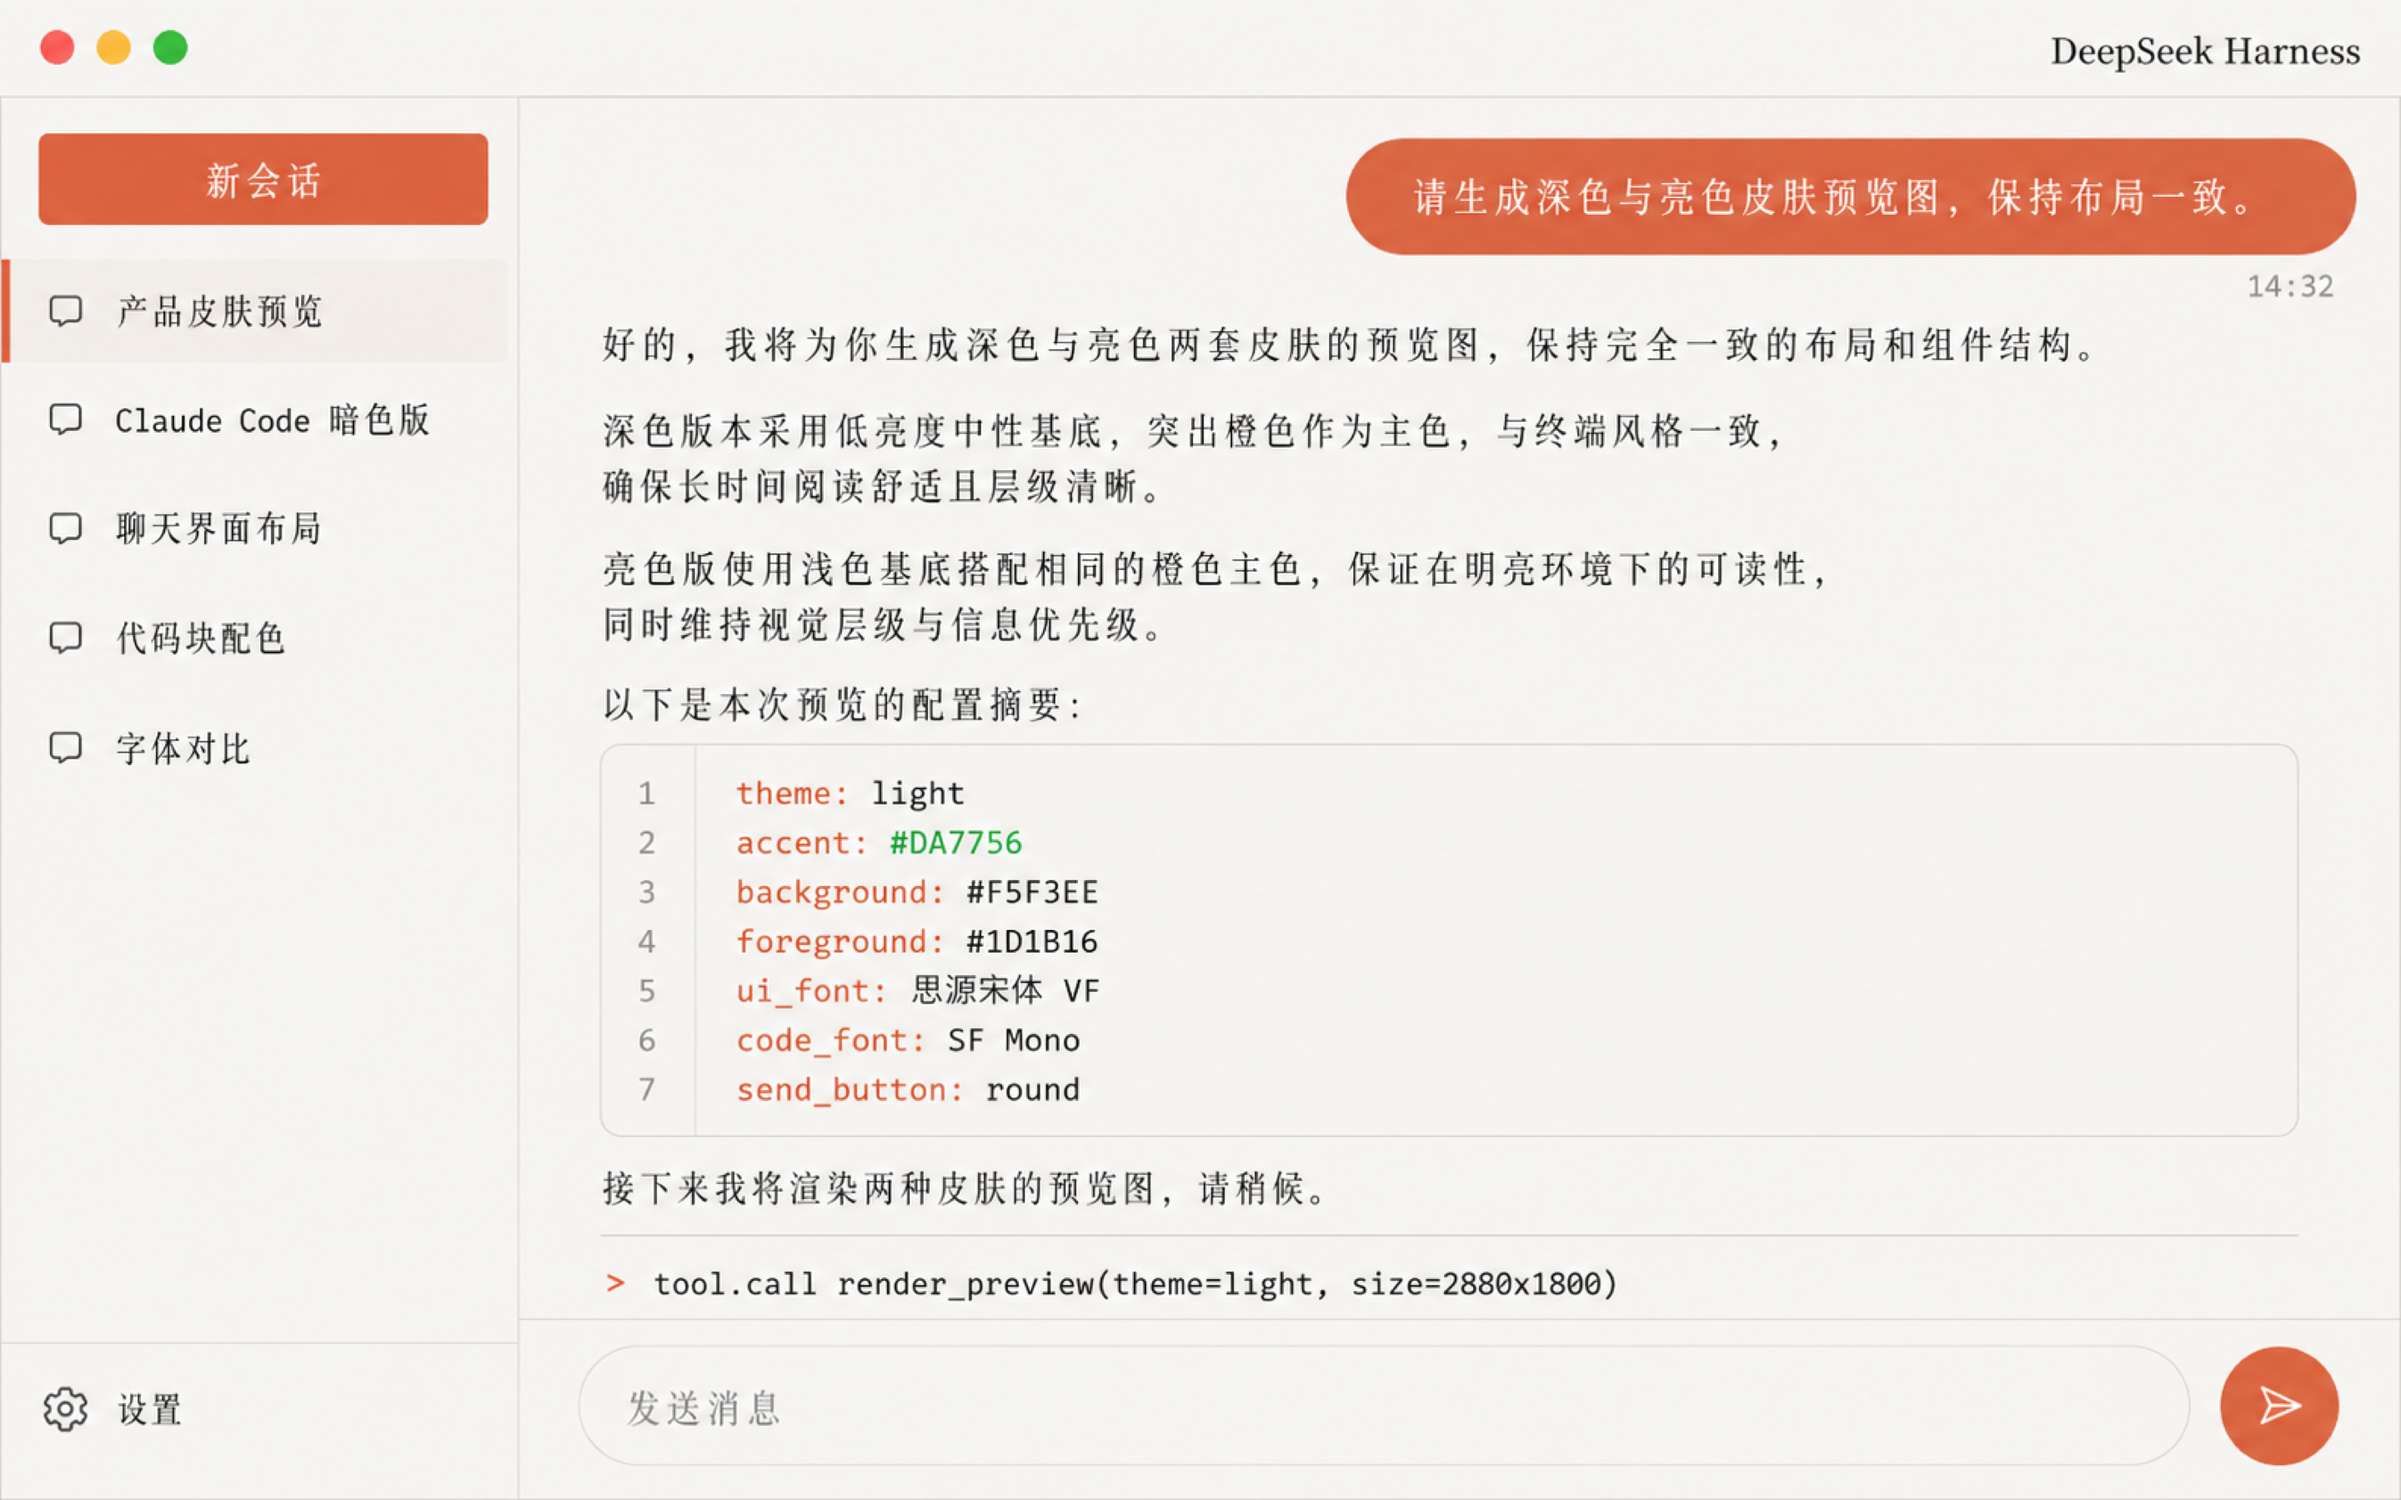
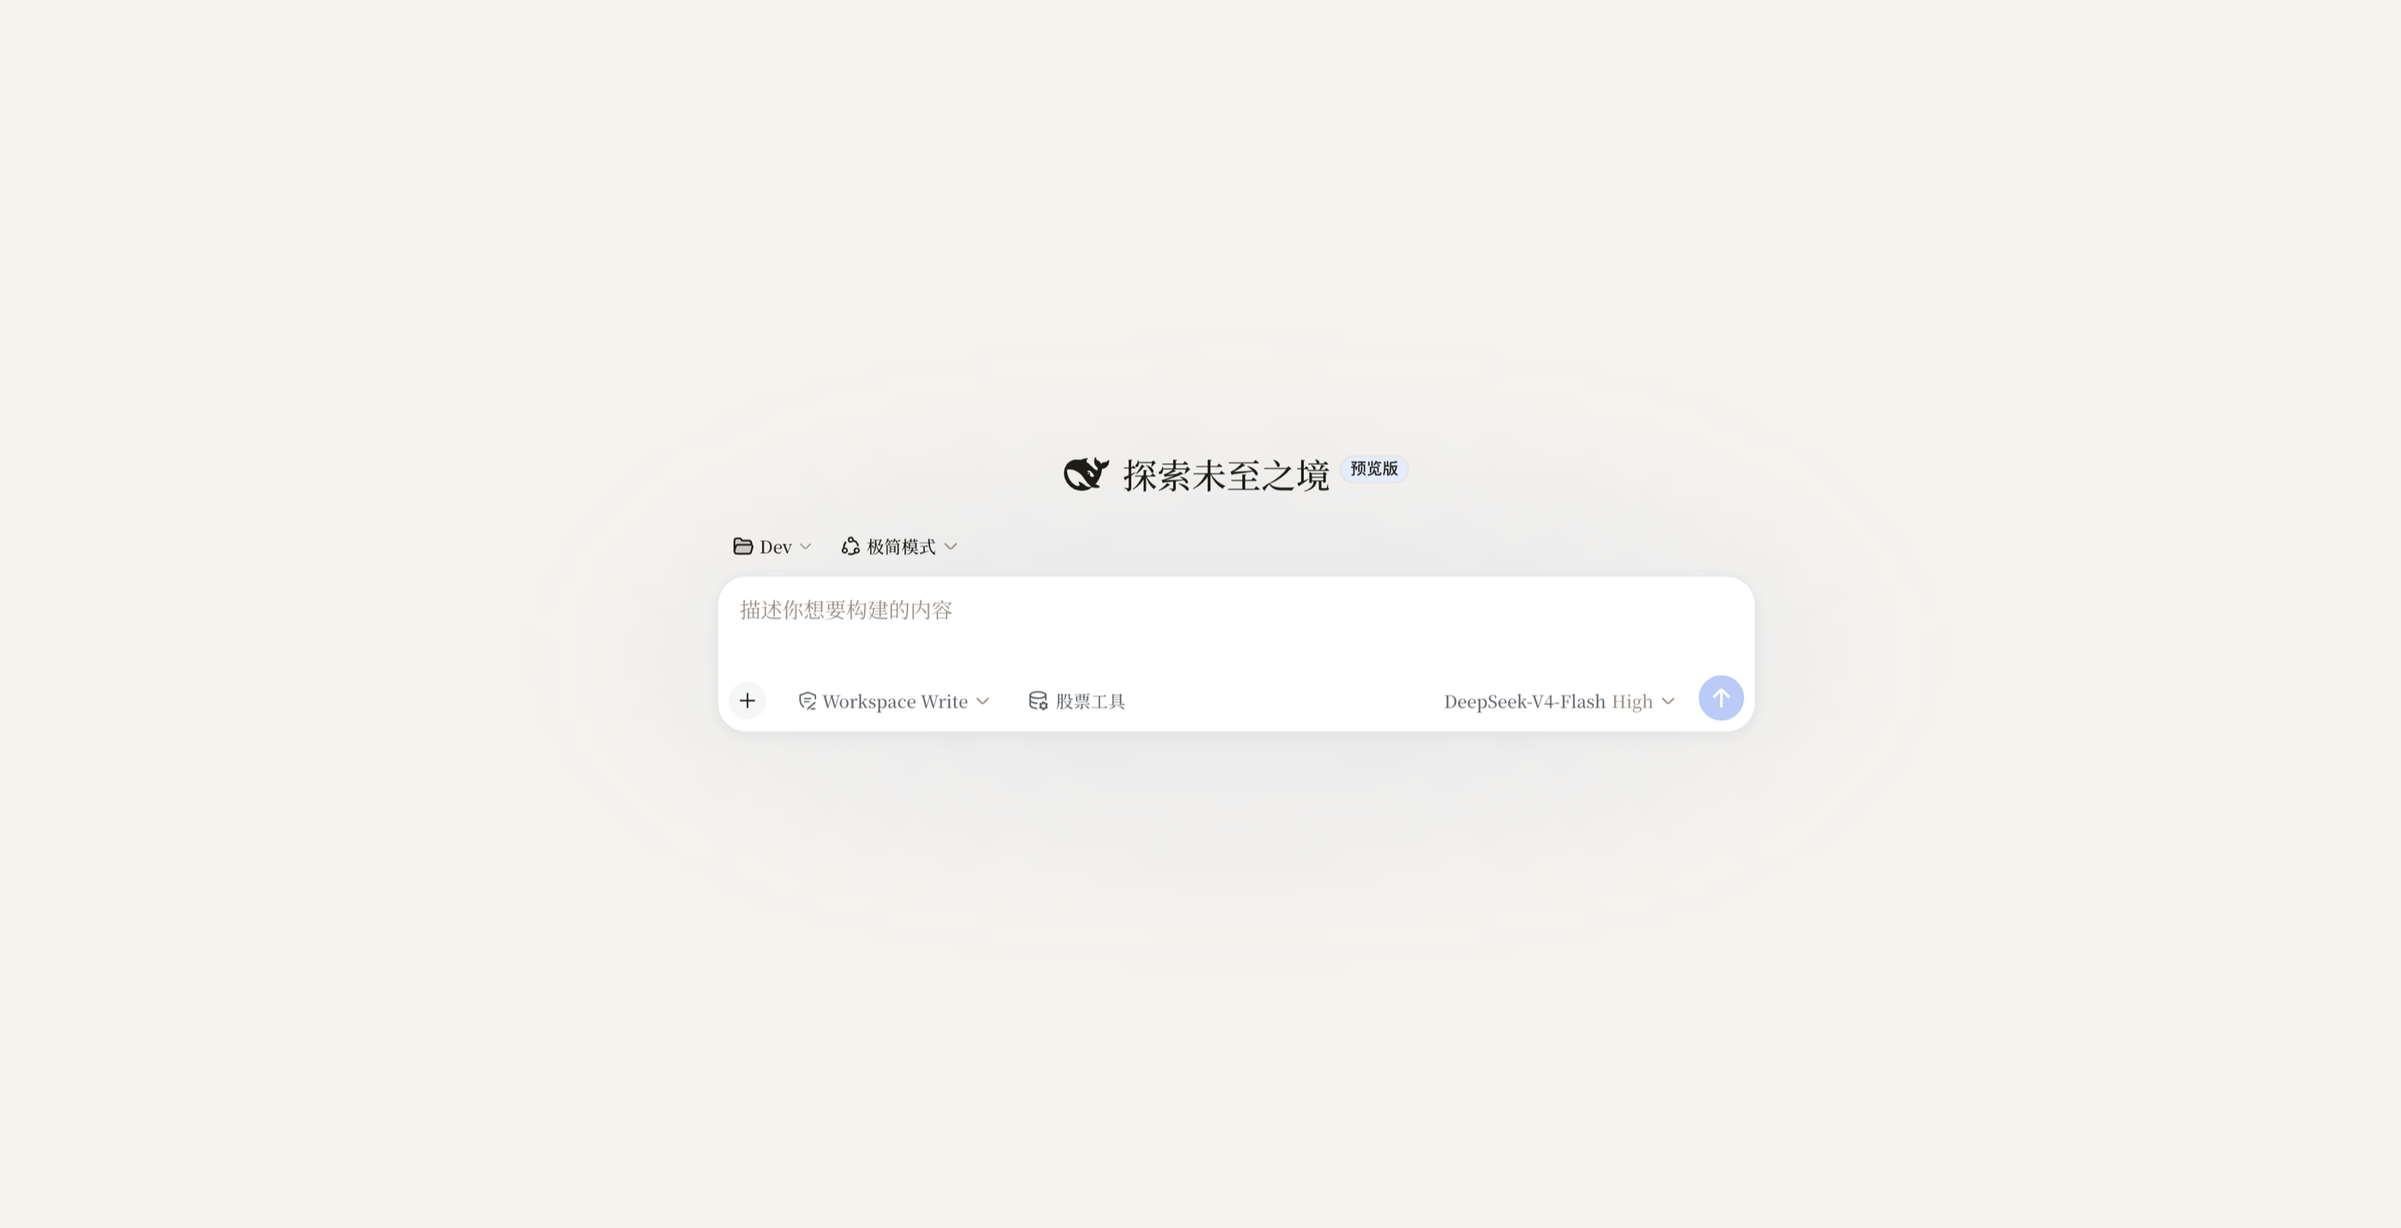
docs: use real full-interface screenshot as showcase image

diff --git a/README.md b/README.md
@@ -1,14 +1,14 @@
 # dsh-skin-claude-code
 
-DeepSeek Harness (dsh) Web GUI 皮肤插件：Claude Code 风格界面 + Codex 暖光配色。
-配色与字体配置取自 Codex 主题（codex-theme-v1）：陶土橙 #DA7756、奶油纸面 #F5F3EE、
-暖黑正文 #1D1B16、UI 字体思源宋体 VF、代码字体 SF Mono，配终端窗口式标题栏，支持亮/暗双模式。
+完美复刻 Claude Code 皮肤，纪念我的 Vibe Coding 白月光。
 
-## 预览
+DeepSeek Harness (dsh) Web GUI 皮肤插件：配色与字体配置取自 Codex 主题（codex-theme-v1）——
+陶土橙 #DA7756、奶油纸面 #F5F3EE、暖黑正文 #1D1B16、UI 字体思源宋体 VF、代码字体 SF Mono，
+配终端窗口式标题栏，支持亮/暗双模式。
 
-| 亮色 | 暗色 |
-| --- | --- |
-| ![light](preview/light.png) | ![dark](preview/dark.png) |
+## 展示
+
+![dsh-skin-claude-code](preview/light.png)
 
 ## 安装
 
